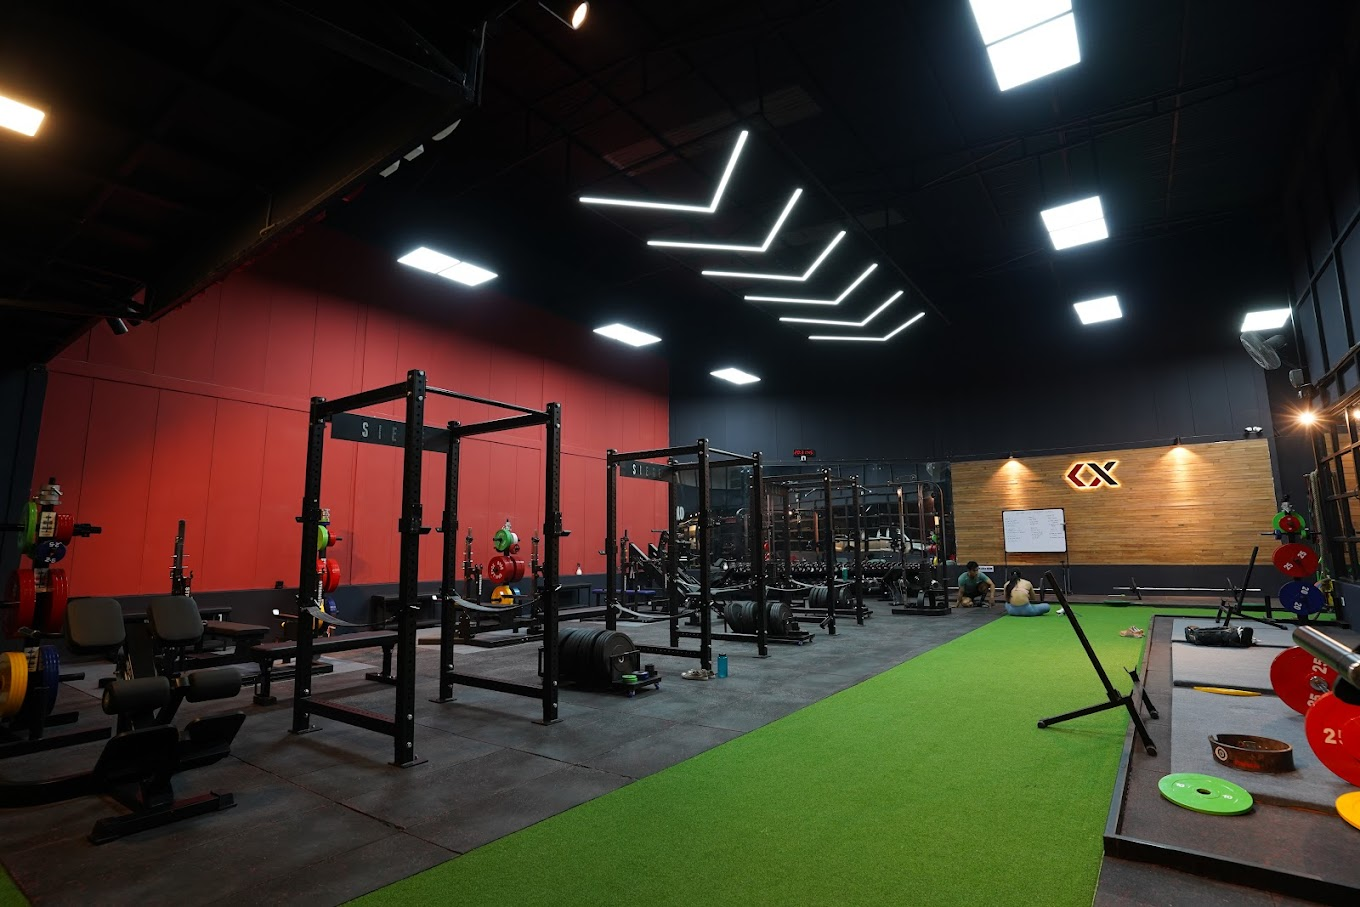
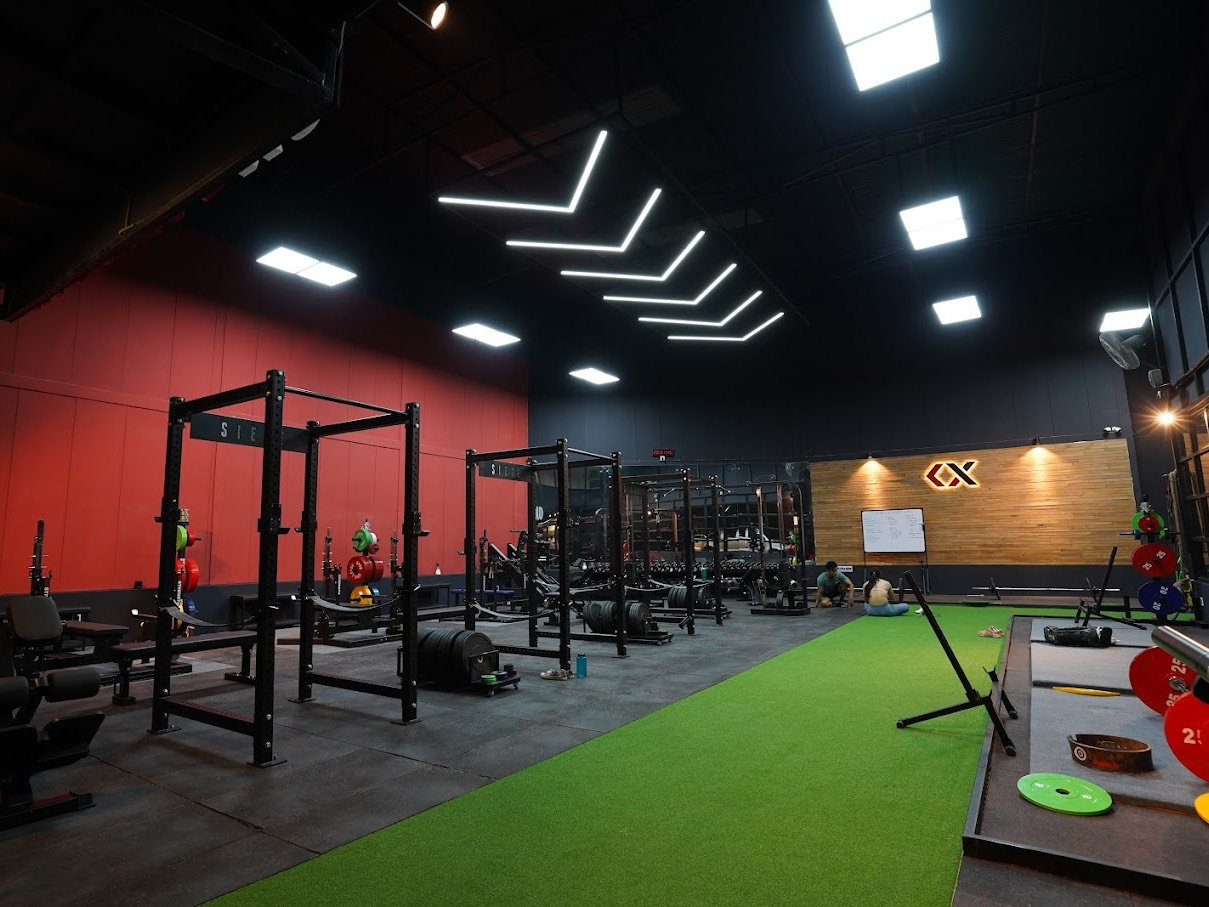
Changes in UI

diff --git a/src/assets/assets.js b/src/assets/assets.js
@@ -23,7 +23,7 @@ import badgeIcon from './badgeIcon.svg'
 import menuIcon from './menuIcon.svg'
 import closeMenu from './closeMenu.svg'
 import guestsIcon from './guestsIcon.svg'
-import roomImg2 from './roomImg2.png'
+import roomImg2 from './roomImg2.jpeg'
 import roomImg3 from './roomImg3.png'
 import roomImg4 from './roomImg4.png'
 import regImage from './regImage.jpg'
@@ -38,7 +38,13 @@ import totalBookingIcon from "./totalBookingIcon.svg";
 import totalRevenueIcon from "./totalRevenueIcon.svg";
 import bayam from './bayam.svg'
 import oxpl1 from './oxpl1.jpg'
-
+import alt from './alt.jpg'
+import pp from './pp.png'
+import pw from './pw.jpeg'
+import pw2 from './pw2.jpg'
+import alt2 from './alt2.jpg'
+import altt from './altt.jpg'
+import altlast from './altlast.jpg'
 
 export const assets = {
     logo,
@@ -74,7 +80,15 @@ export const assets = {
     totalBookingIcon,
     totalRevenueIcon,
     bayam, 
-    oxpl1
+    oxpl1,
+    alt,
+    pp,
+    pw,
+    pw2,
+    alt2,
+    altt,
+    altlast,
+
 }
 
 export const cities = [
@@ -102,9 +116,6 @@ export const testimonials = [
 // Facility Icon
 export const facilityIcons = {
     "Free WiFi": assets.freeWifiIcon,
-    "Free Breakfast": assets.freeBreakfastIcon,
-    "Room Service": assets.roomServiceIcon,
-    "Mountain View": assets.mountainIcon,
     "Pool Access": assets.poolIcon,
 };
 
@@ -119,7 +130,7 @@ export const roomCommonData = [
 // User Dummy Data
 export const userDummyData = {
     "_id": "user_2unqyL4diJFP1E3pIBnasc7w8hP",
-    "username": "Great Stack",
+    "username": "Ox Strength",
     "email": "user.greatstack@gmail.com",
     "image": "https://img.clerk.com/eyJ0eXBlIjoicHJveHkiLCJzcmMiOiJodHRwczovL2ltYWdlcy5jbGVyay5kZXYvdXBsb2FkZWQvaW1nXzJ2N2c5YVpSSEFVYVUxbmVYZ2JkSVVuWnFzWSJ9",
     "role": "hotelOwner",
@@ -134,7 +145,7 @@ export const userDummyData = {
 // Hotel Dummy Data
 export const hotelDummyData = {
     "_id": "67f76393197ac559e4089b72",
-    "name": "Ox Strength",
+    "name": "Ox Strength Training Ground",
     "address": "Budhanilkantha, Kathmandu",
     "contact": "01-5920854",
     "owner": userDummyData,
@@ -149,10 +160,10 @@ export const roomsDummyData = [
     {
         "_id": "67f7647c197ac559e4089b96",
         "hotel": hotelDummyData,
-        "roomType": "Double Bed",
+        "roomType": "Power Lifting",
         "pricePerMonth": 39.9,
-        "amenities": ["Room Service", "Mountain View", "Pool Access"],
-        "images": [oxpl1, roomImg2, roomImg3, roomImg4],
+        "amenities": ["Free Wifi", "Pool Access"],
+        "images": [oxpl1, roomImg2, pw, pw2],
         "isAvailable": true,
         "createdAt": "2025-04-10T06:26:04.013Z",
         "updatedAt": "2025-04-10T06:26:04.013Z",
@@ -161,10 +172,10 @@ export const roomsDummyData = [
     {
         "_id": "67f76452197ac559e4089b8e",
         "hotel": hotelDummyData,
-        "roomType": "Double Bed",
+        "roomType": "Body Building",
         "pricePerMonth": 29.9,
-        "amenities": ["Room Service", "Mountain View", "Pool Access"],
-        "images": [roomImg2, roomImg3, roomImg4],
+        "amenities": ["Free Wifi", "Pool Access"],
+        "images": [altt, alt, alt2, altlast],
         "isAvailable": true,
         "createdAt": "2025-04-10T06:25:22.593Z",
         "updatedAt": "2025-04-10T06:25:22.593Z",
@@ -173,10 +184,10 @@ export const roomsDummyData = [
     {
         "_id": "67f76406197ac559e4089b82",
         "hotel": hotelDummyData,
-        "roomType": "Double Bed",
+        "roomType": "Hyrox Training",
         "pricePerMonth": 24.9,
-        "amenities": ["Free WiFi", "Free Breakfast", "Room Service"],
-        "images": [roomImg3, roomImg4, roomImg2],
+        "amenities": ["Free Wifi", "Pool Access"],
+        "images": [pp, roomImg4, roomImg2],
         "isAvailable": true,
         "createdAt": "2025-04-10T06:24:06.285Z",
         "updatedAt": "2025-04-10T06:24:06.285Z",
@@ -185,9 +196,9 @@ export const roomsDummyData = [
     {
         "_id": "67f763d8197ac559e4089b7a",
         "hotel": hotelDummyData,
-        "roomType": "Single Bed",
+        "roomType": "Weight Lifting",
         "pricePerMonth": 19.9,
-        "amenities": ["Free WiFi", "Room Service", "Pool Access"],
+        "amenities": ["Free Wifi", "Pool Access"],
         "images": [roomImg4, roomImg2, roomImg3],
         "isAvailable": true,
         "createdAt": "2025-04-10T06:23:20.252Z",

diff --git a/src/components/FeaturedDestination.jsx b/src/components/FeaturedDestination.jsx
@@ -1,33 +1,38 @@
-import React from 'react'
-import { roomsDummyData } from '../assets/assets'
-import GymCard from './GymCard'
-import Title from './Title'
-import { useNavigate } from 'react-router-dom'
-
+import React from 'react';
+import { roomsDummyData } from '../assets/assets';
+import GymCard from './GymCard';
+import Title from './Title';
+import { useNavigate } from 'react-router-dom';
 
 const FeaturedDestination = () => {
+  const navigate = useNavigate();
 
-    const navigate = useNavigate()
+  const handleViewAllClick = () => {
+    navigate('/rooms');
+    window.scrollTo(0, 0);
+  };
+
   return (
-    <div className='flex flex-col items-center px-6 md:px-6 lg:px-24 bg-slate-50 py-20'>
+    <section className='flex flex-col items-center px-6 md:px-6 lg:px-24 bg-slate-50 py-20'>
       <Title 
         title='Featured Training Destination' 
         subTitle='Discover our handpicked selection of exceptional properties around the world, offering unparalleled luxury and unforgettable training experiences.'
       />
-      <div className='flex flex-wrap items-center justify-center gap-6 mt-20'>
-        {roomsDummyData.slice(0, 4).map((room, index) => (
-          <GymCard key={room._id} room={room} index={index} />
+      
+      <div className='grid grid-cols-1 sm:grid-cols-2 lg:grid-cols-4 gap-6 mt-20 w-full'>
+        {roomsDummyData.slice(0, 4).map((room) => (
+          <GymCard key={room._id} room={room} />
         ))}
       </div>
       
       <button
-        onClick={() => {navigate('/rooms'); scrollTo(0,0)}}
-        className='my-16 px-4 py-2 text-sm font-medium border border-gray-300 rounded bg-white hover:bg-gray-50 transition-all cursor-pointer'
+        onClick={handleViewAllClick}
+        className='my-16 px-6 py-3 text-base font-medium border border-gray-300 rounded bg-white hover:bg-gray-50 transition-all cursor-pointer shadow-sm hover:shadow-md'
       >
         View All Training Destinations
       </button>
-    </div>
-  )
-}
+    </section>
+  );
+};
 
-export default FeaturedDestination
+export default FeaturedDestination;

diff --git a/src/services/api.js b/src/services/api.js
@@ -1,0 +1,9 @@
+import axios from "axios";
+
+const API = "http://localhost:5173/api/users";
+
+export const getUsers = () => axios.get(API);
+export const getUserById = (id) => axios.get(`${API}/${id}`);
+export const createUser = (user) => axios.post(API, user);
+export const updateUser = (id, data) => axios.put(`${API}/${id}`, data);
+export const deleteUser = (id) => axios.delete(`${API}/${id}`);
